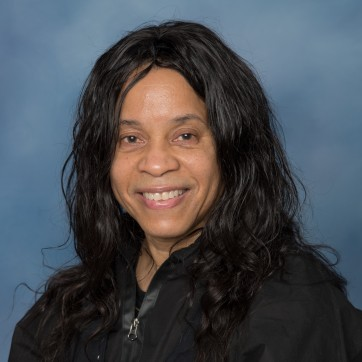
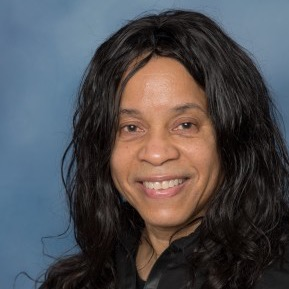
sizing and framing of slices fixed

diff --git a/index.html b/index.html
@@ -93,7 +93,7 @@
           width="100"
           height="100"
         >
-          <image href="images/t1.jpeg" width="100" height="100" />
+          <image href="images/t1.jpeg" width="100" height="100" preserveAspectRatio="xMidYMid slice" />
         </pattern>
         <pattern
           id="img2"
@@ -101,7 +101,7 @@
           width="100"
           height="100"
         >
-          <image href="images/t2.jpeg" width="100" height="100" />
+          <image href="images/t2.jpeg" width="100" height="100" preserveAspectRatio="xMidYMid slice" />
         </pattern>
         <pattern
           id="img3"
@@ -109,7 +109,7 @@
           width="100"
           height="100"
         >
-          <image href="images/t3.png" width="100" height="100" />
+          <image href="images/t3.png" width="100" height="100" preserveAspectRatio="xMidYMid slice" />
         </pattern>
         <pattern
           id="img4"
@@ -117,7 +117,7 @@
           width="100"
           height="100"
         >
-          <image href="images/t4.jpeg" width="100" height="100" />
+          <image href="images/t4.jpeg" width="100" height="100" preserveAspectRatio="xMidYMid slice" />
         </pattern>
         <pattern
           id="img5"
@@ -125,7 +125,7 @@
           width="100"
           height="100"
         >
-          <image href="images/t5.jpeg" width="100" height="100" />
+          <image href="images/t5.jpeg" width="100" height="100" preserveAspectRatio="xMidYMid slice" />
         </pattern>
         <pattern
           id="img6"
@@ -133,10 +133,13 @@
           width="100"
           height="100"
         >
-          <image href="images/t6.jpeg" width="100" height="100" />
+          <image href="images/t6.jpeg" width="100" height="100" preserveAspectRatio="xMidYMid slice" />
         </pattern>
       </defs>
     </svg>
   </div>
 </body>
 </html>
+
+
+
